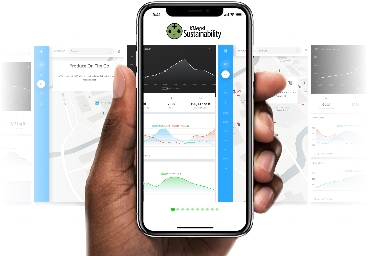
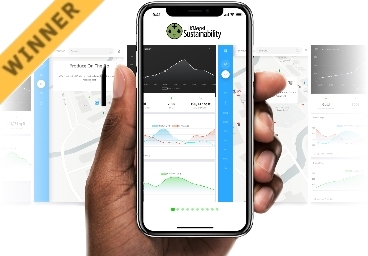
Updated Ozone (winning at I2G)

Changed region(s): [[0.0, 0.0, 0.2989, 0.4062], [0.269, 0.25, 0.2989, 0.4375]]

diff --git a/index.html b/index.html
@@ -145,14 +145,21 @@
                     <header>
                         <h3><a href="iterate.html">Iterate</a></h3>
                     </header>
-                    <p>A multilingual C# intepreter teaching aid visualized by Unity3D, <br />winning CITRIS' <strong>Mobile App Challenge</strong></p>
+                    <p>A multilingual C# intepreter teaching aid visualized by Unity3D, <br />winning $5,000 at CITRIS' <strong>MAC</strong></p>
                 </article>
                 <article class="Project">
                     <a href="ozone.html" class="image featured"><img src="images/ozone.jpg" alt="" /></a>
                     <header>
                         <h3><a href="ozone.html">Ozone</a></h3>
                     </header>
-                    <p>Utilizing GIS and Big Data to promote sustainability initiatives,<br /> hopefully winning <strong>Innovate to Grow</strong></p>
+                    <p>Utilizing GIS and Big Data to promote sustainability initiatives,<br /> winning $2,000 at <strong>Innovate to Grow</strong></p>
+                </article>
+                <article class="Hack">
+                    <a href="lucas.html" class="image featured"><img src="images/lucas.jpg" alt="" /></a>
+                    <header>
+                        <h3><a href="lucas.html">L.U.C.A.S</a></h3>
+                    </header>
+                    <p>Logarithmic Ultrasonic Collision Avoidance System,<br /> winning $1,000 at <strong>Citrus Hack</strong></p>
                 </article>
                 <article class="Hack">
                     <a href="gist.html" class="image featured"><img src="images/gist.jpg" alt="" /></a>
@@ -162,11 +169,11 @@
                     <p>Getting the GISt of our food: using AR to fill the missing link from farm to table,<br /> winning <strong>HackDavis</strong></p>
                 </article>
                 <article class="Hack">
-                    <a href="lucas.html" class="image featured"><img src="images/lucas.jpg" alt="" /></a>
+                    <a href="digestquest.html" class="image featured"><img src="images/digestquest.jpg" alt="" /></a>
                     <header>
-                        <h3><a href="lucas.html">L.U.C.A.S</a></h3>
+                        <h3><a href="digestquest.html">DigestQuest</a></h3>
                     </header>
-                    <p>Logarithmic Ultrasonic Collision Avoidance System,<br /> winning $1000 at <strong>Citrus Hack</strong></p>
+                    <p>FitBit for your stomach: a heuristic image processing web application,<br /> winning <strong>HackMerced</strong></p>
                 </article>
 
                 <article class="Game">
@@ -176,13 +183,7 @@
                     </header>
                     <p>A short platformer game, used to teach middle schoolers how to make their own 2D games</p>
                 </article>
-                <article class="Hack">
-                    <a href="digestquest.html" class="image featured"><img src="images/digestquest.jpg" alt="" /></a>
-                    <header>
-                        <h3><a href="digestquest.html">DigestQuest</a></h3>
-                    </header>
-                    <p>FitBit for your stomach: a heuristic image processing web application,<br /> winning <strong>HackMerced</strong></p>
-                </article>
+
                 <article class="Project">
                     <a class="image featured">
                         <video style="vertical-align:middle; width:100%; height:100%" controls>
